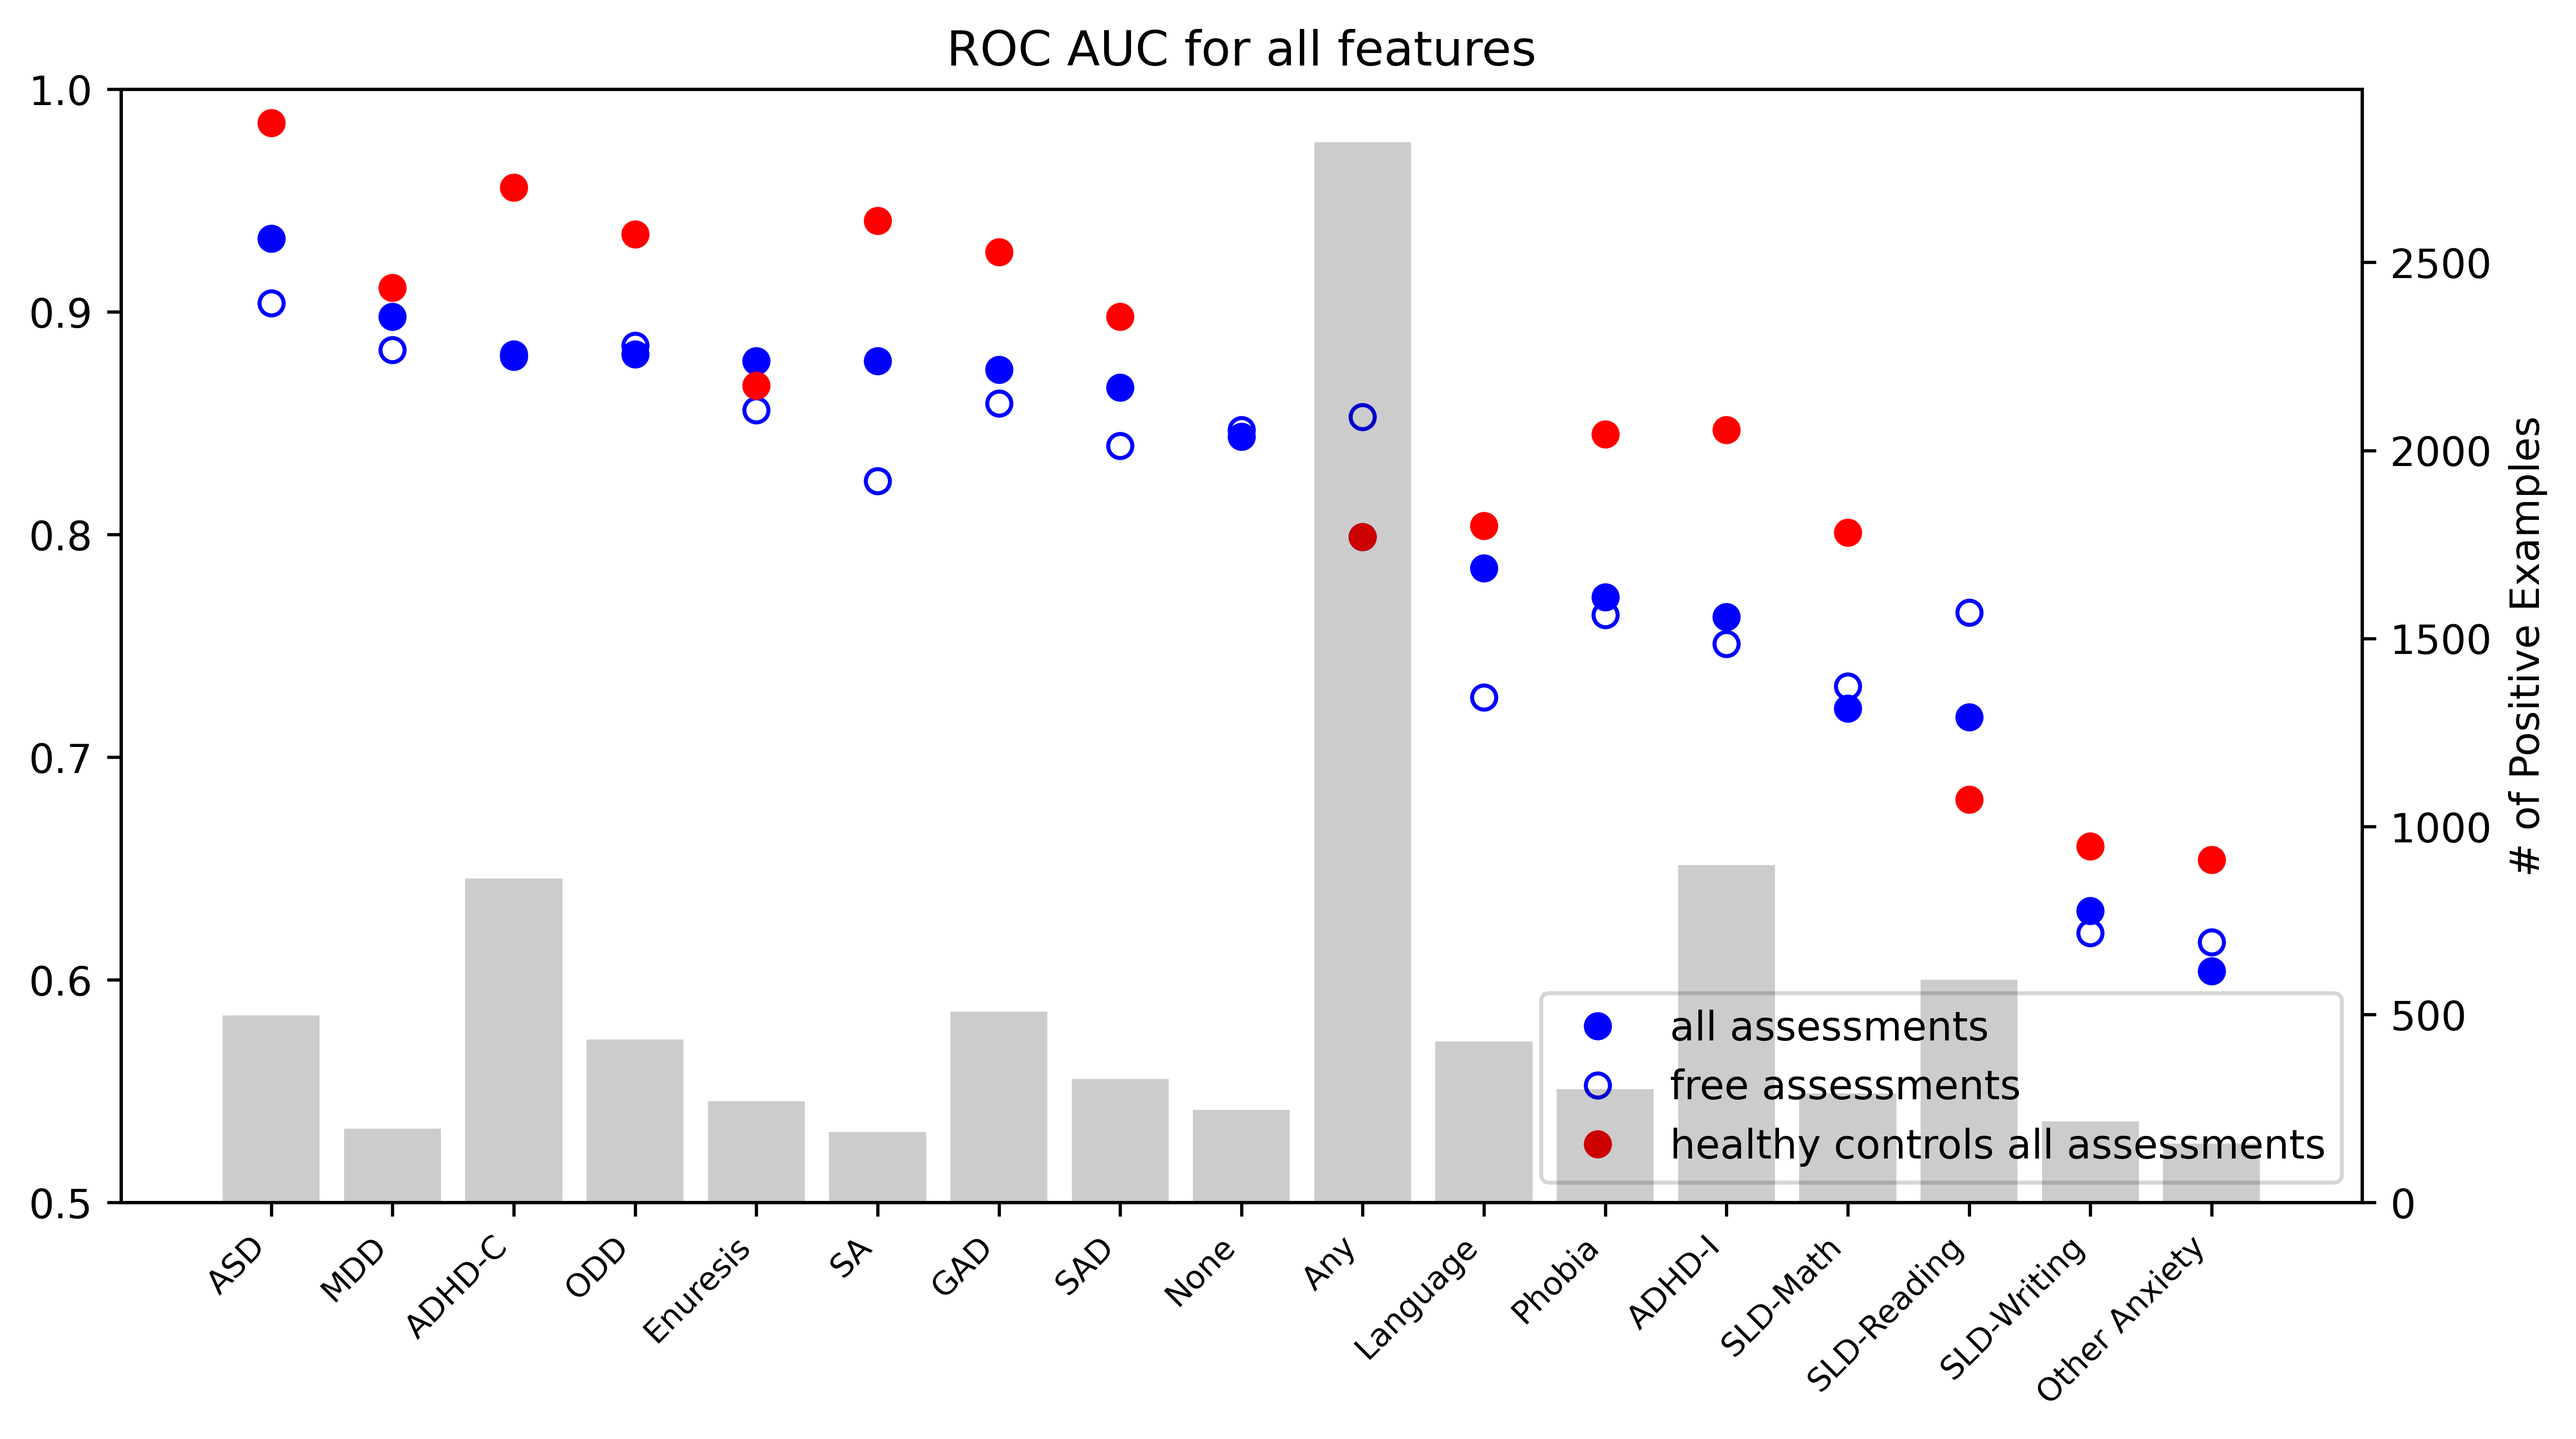
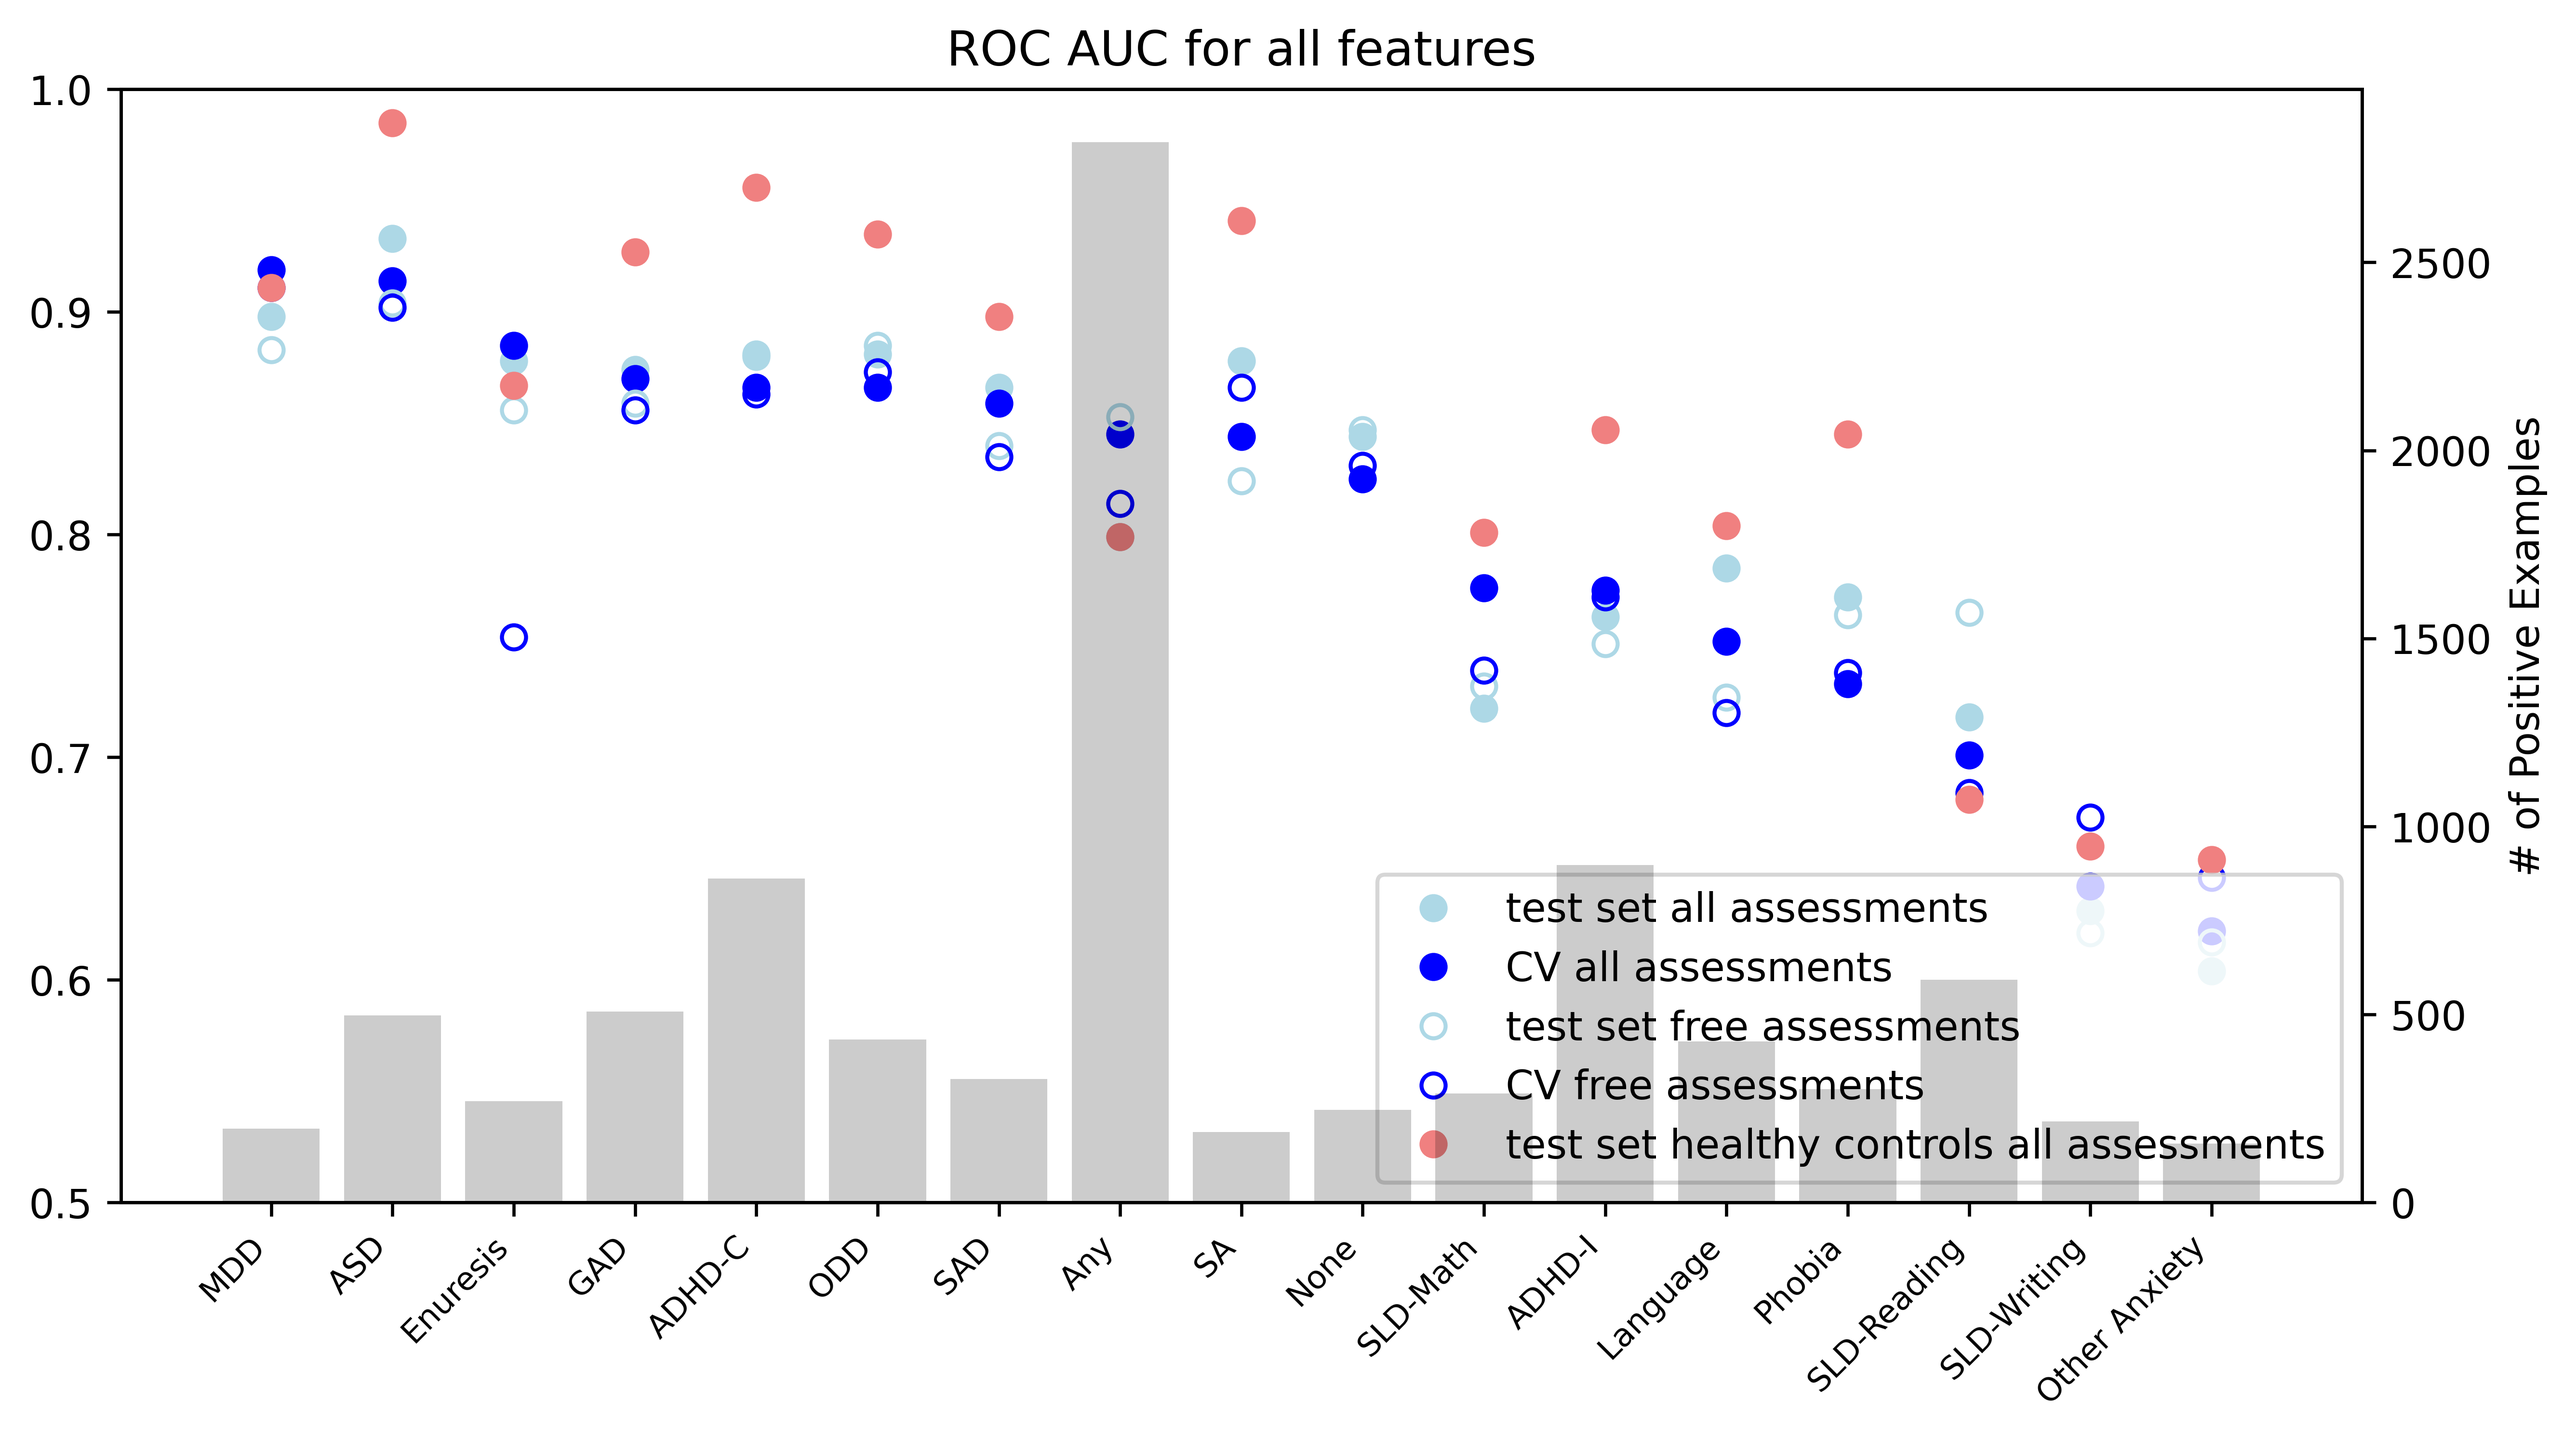
add CV scores on eval orig plot

diff --git a/make_final_tables.py b/make_final_tables.py
@@ -39,11 +39,11 @@ def make_df_to_plot_eval_orig(dir_eval_orig_all, dir_eval_orig_free):
 
     # Each row is diagnosis (index), plot ROC AUC column and ROC AUC healthy controls column. 
     # Plot both for all assessments and free assessments on the same plot, add number of positive examples to each diagnosis
-    eval_orig_all_df = eval_orig_all_df[["ROC AUC", "ROC AUC Healthy Controls", "# of Positive Examples"]]
-    eval_orig_free_df = eval_orig_free_df[["ROC AUC", "ROC AUC Healthy Controls"]]
-    eval_orig_all_df.columns = ["AUC all features all assessments", "AUC all features healthy controls all assessments", "# of Positive Examples"]
-    eval_orig_free_df.columns = ["AUC all features free assessments", "AUC all features healthy controls free assessments"]
-    eval_orig_df = eval_orig_all_df.merge(eval_orig_free_df, left_index=True, right_index=True).sort_values(by="AUC all features all assessments", ascending=False)
+    eval_orig_all_df = eval_orig_all_df[["ROC AUC", "ROC AUC Mean CV", "ROC AUC Healthy Controls", "# of Positive Examples"]]
+    eval_orig_free_df = eval_orig_free_df[["ROC AUC", "ROC AUC Mean CV", "ROC AUC Healthy Controls"]]
+    eval_orig_all_df.columns = ["AUC all features all assessments", "AUC CV all features all assessments", "AUC all features healthy controls all assessments", "# of Positive Examples"]
+    eval_orig_free_df.columns = ["AUC all features free assessments", "AUC CV all features free assessments", "AUC all features healthy controls free assessments"]
+    eval_orig_df = eval_orig_all_df.merge(eval_orig_free_df, left_index=True, right_index=True).sort_values(by="AUC CV all features all assessments", ascending=False)
 
     return eval_orig_df
 

diff --git a/make_plots.py b/make_plots.py
@@ -42,10 +42,11 @@ def plot_eval_orig(eval_orig_df):
     # Plot on same plot, one point for each diagnosis, connext diagnoses with lines
     plt.figure(figsize=(10, 5))
     plt.title("ROC AUC for all features")
-    plt.plot(eval_orig_df["AUC all features all assessments"], label="all assessments", marker="o", linestyle="", color="blue")
-    plt.plot(eval_orig_df["AUC all features free assessments"], label="free assessments", marker="o", linestyle="", color="blue", markerfacecolor='none')
-    plt.plot(eval_orig_df["AUC all features healthy controls all assessments"], label="healthy controls all assessments", marker="o", linestyle="", color="red")
-    #plt.plot(eval_orig_df["ROC AUC healthy controls free assessments"], label="healthy controls free assessments", marker="o", linestyle="--", color="green")
+    plt.plot(eval_orig_df["AUC all features all assessments"], label="test set all assessments", marker="o", linestyle="", color="lightblue")
+    plt.plot(eval_orig_df["AUC CV all features all assessments"], label="CV all assessments", marker="o", linestyle="", color="blue")
+    plt.plot(eval_orig_df["AUC all features free assessments"], label="test set free assessments", marker="o", linestyle="", color="lightblue", markerfacecolor='none')
+    plt.plot(eval_orig_df["AUC CV all features free assessments"], label="CV free assessments", marker="o", linestyle="", color="blue", markerfacecolor='none')
+    plt.plot(eval_orig_df["AUC all features healthy controls all assessments"], label="test set healthy controls all assessments", marker="o", linestyle="", color="lightcoral")
     plt.xticks(rotation=45, ha="right", size=8)
     plt.legend(loc="lower right")
     plt.ylim([0.5, 1.0])
